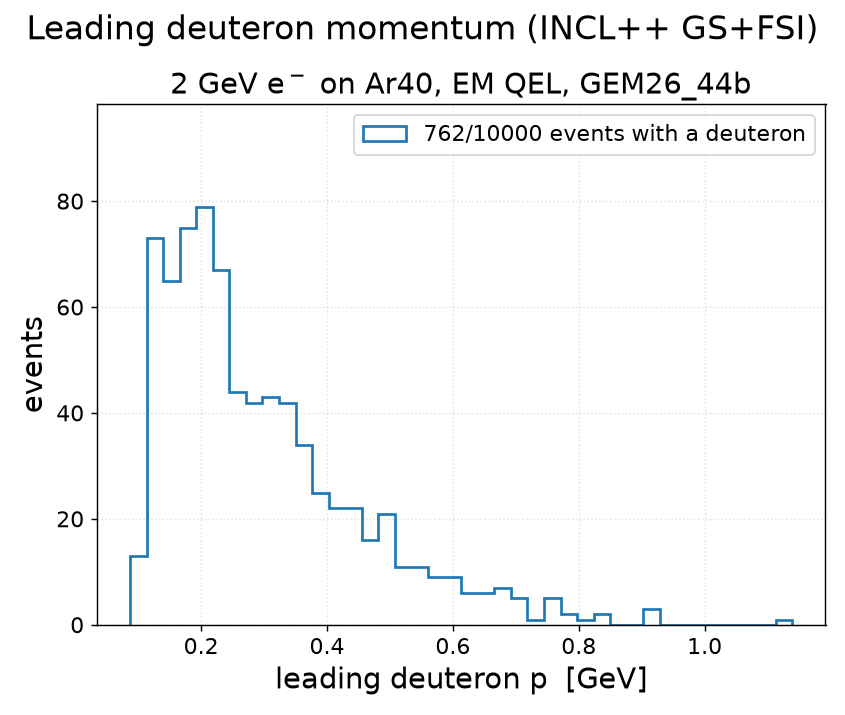
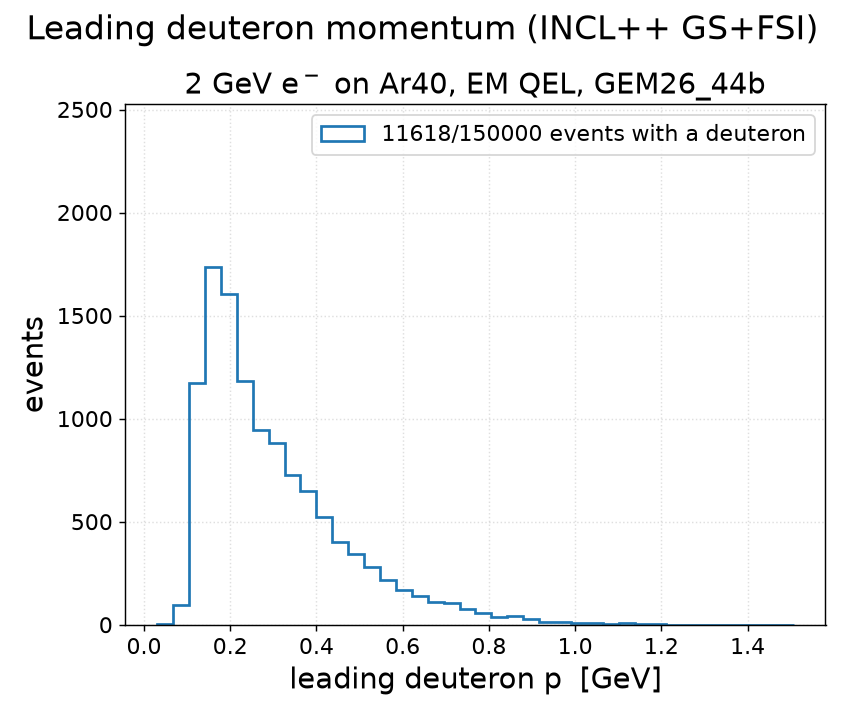
results: Ar40 leading deuteron momentum from 150k grid events
15/20 processes of gevgen_grid-eminus_Ar40_20260714-175321-bd666d
(20 x 10k EM QEL, 2 GeV e- Ar40, GEM26_44b, per-process seed
CLUSTER+PROCESS); 11618/150000 events (7.7%) with >=1 deuteron,
leading-p mean 0.302 GeV — consistent with the local 10k run (7.6%).

diff --git a/results/template/make_leading_deuteron_gem26_44b_ar40.py b/results/template/make_leading_deuteron_gem26_44b_ar40.py
@@ -7,15 +7,17 @@ import uproot
 from plot_style import apply_style, style_axis, COLORS, FS_LABEL, FS_LEGEND, FS_SUPTITLE, DPI
 import matplotlib.pyplot as plt
 
-GST = ("/exp/dune/data/users/liangliu/genie-dev/genie-agent/genie-runs/"
-       "GEM26_44b_00_000-2026-07-14/eminus_Ar40_20260714-173526-acf.gst.root")
+import glob
+# grid batch gevgen_grid-eminus_Ar40_20260714-175321-bd666d, 10k events/process
+GST = sorted(glob.glob(
+    "/exp/dune/data/users/liangliu/genie-dev/genie-agent/genie-runs/"
+    "GEM26_44b_grid_pulled-2026-07-14/ar40_gst/*.gst.root"))
+print(f"gst files: {len(GST)}")
 DEUTERON = 1000010020
 
-t = uproot.open(GST)["gst"]
-pdgf = t["pdgf"].array(library="ak")
-pf = t["pf"].array(library="ak")
-
 import awkward as ak
+arr = uproot.concatenate([f + ":gst" for f in GST], ["pdgf", "pf"], library="ak")
+pdgf, pf = arr["pdgf"], arr["pf"]
 mask = pdgf == DEUTERON
 p_deut = pf[mask]
 has_d = ak.num(p_deut) > 0
